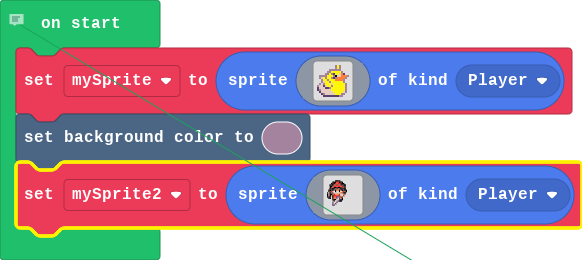
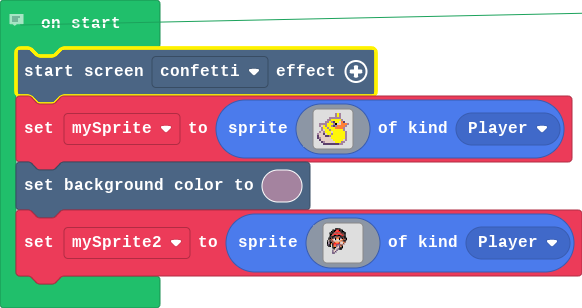
Update main.blocks, main.ts

diff --git a/main.ts b/main.ts
@@ -1,4 +1,5 @@
 // Don't forget to comment your code as you work!
+effects.confetti.startScreenEffect()
 let mySprite = sprites.create(img`
     . . . . . . . . . b 5 b . . . . 
     . . . . . . . . . b 5 b . . . . 
